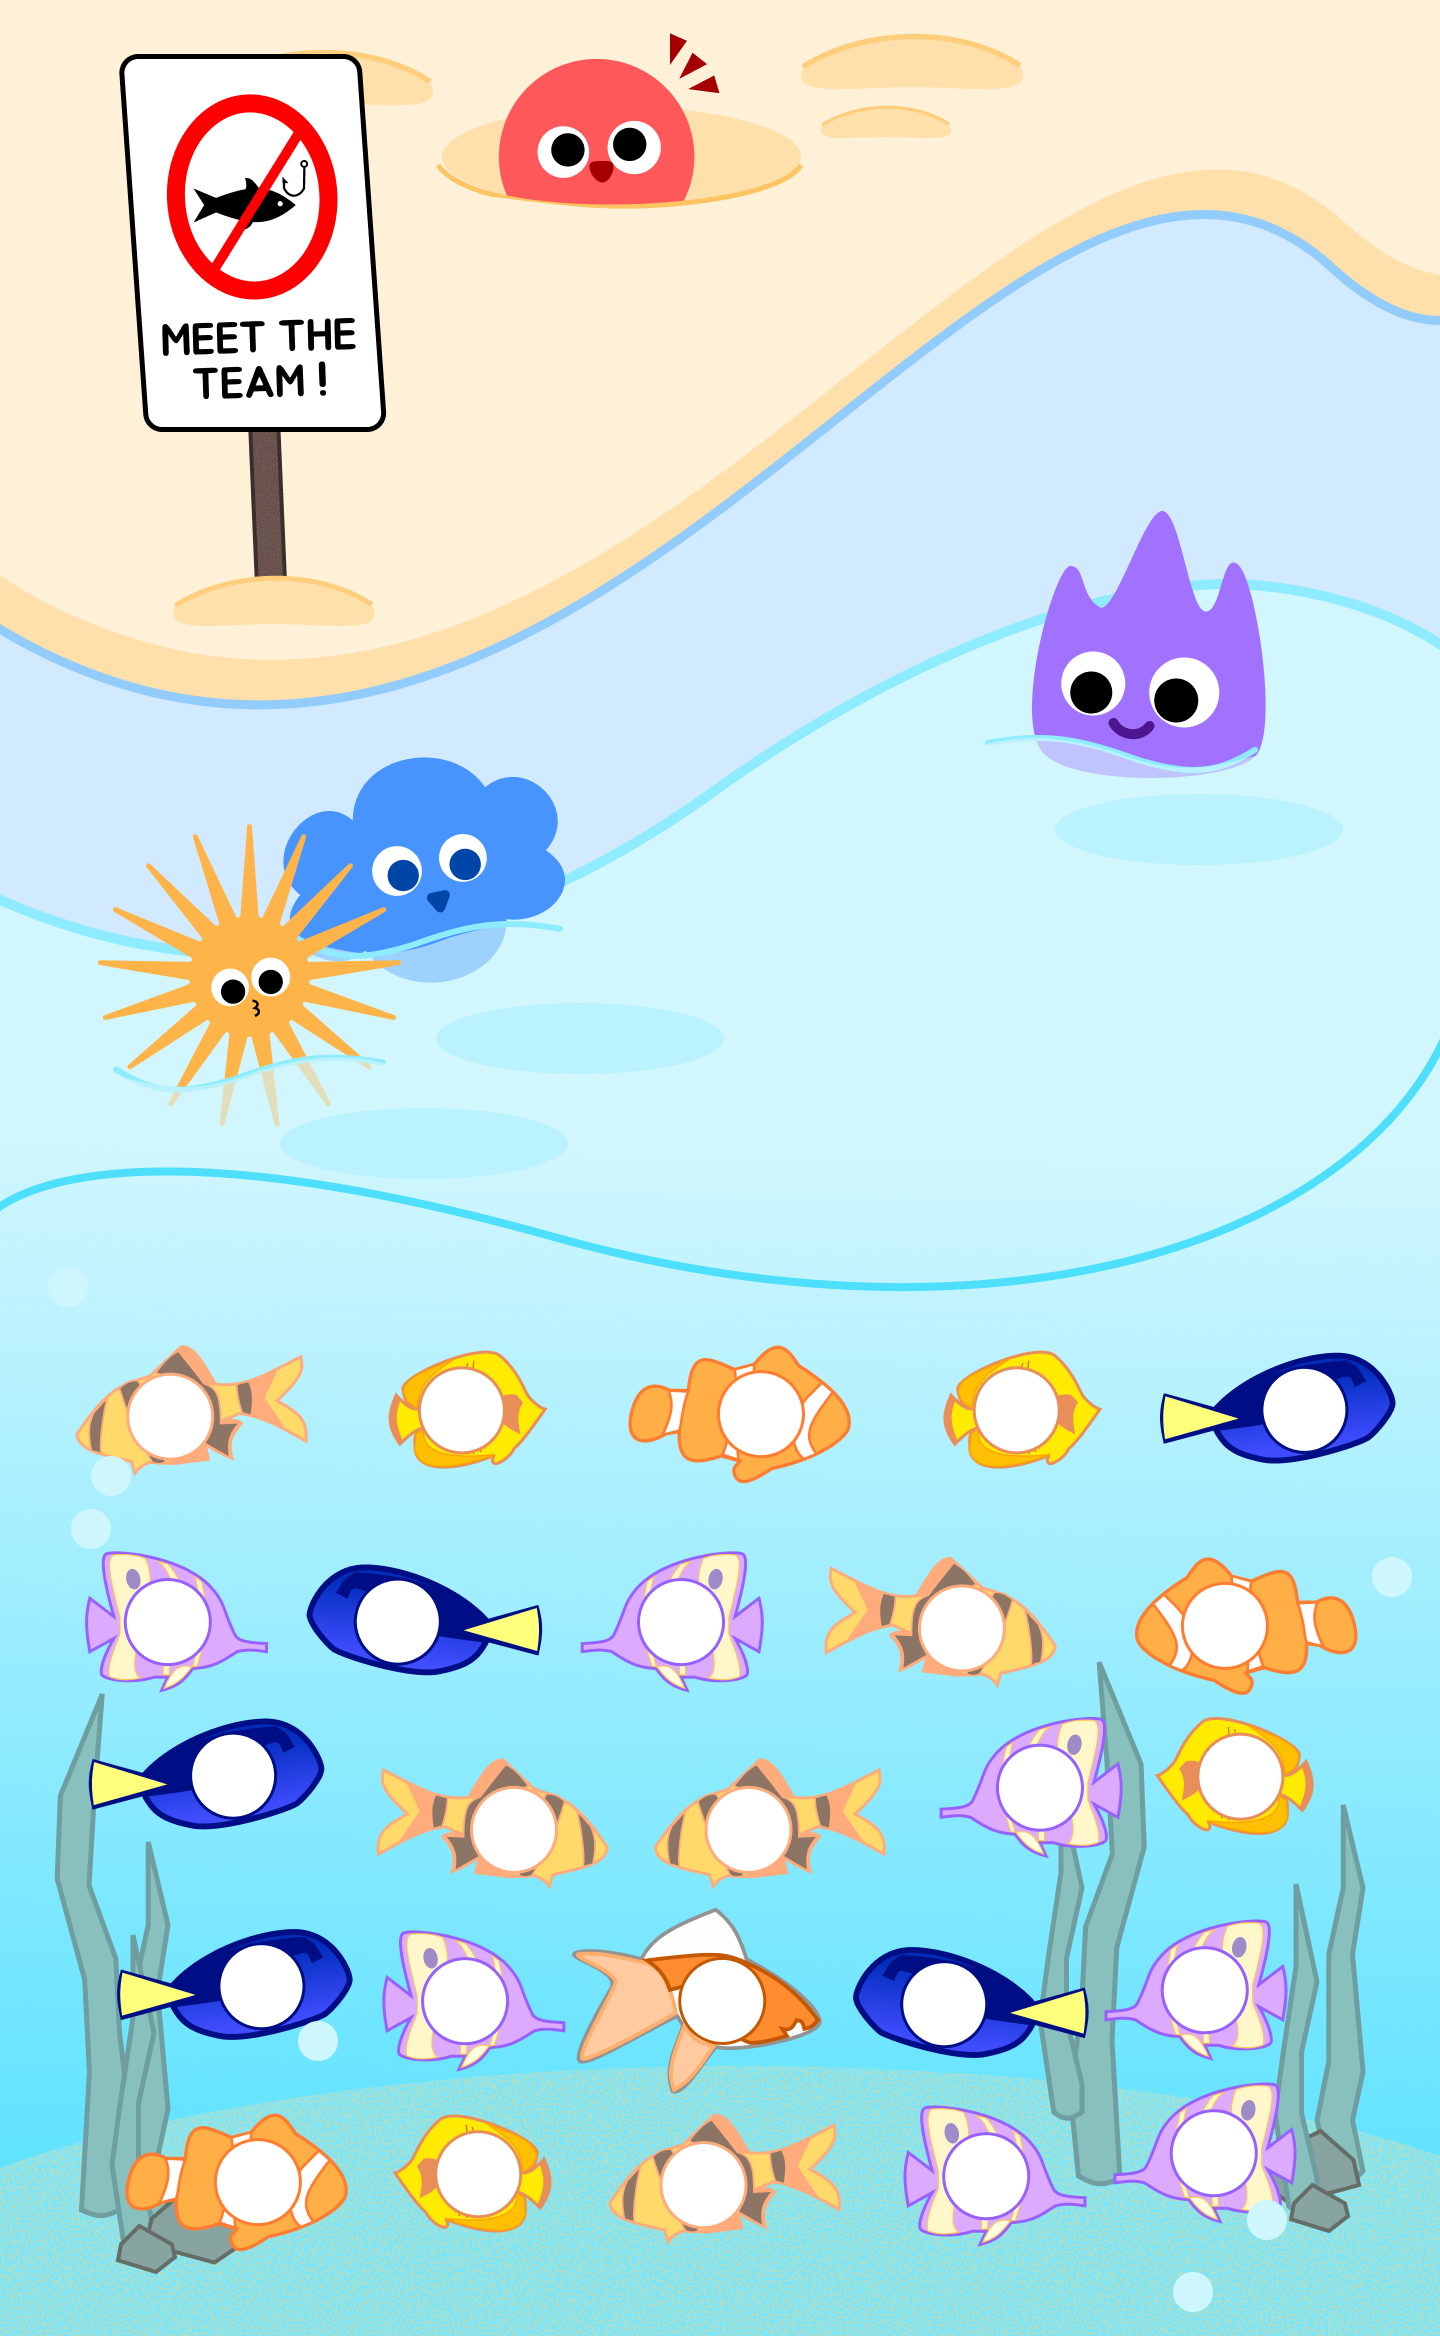
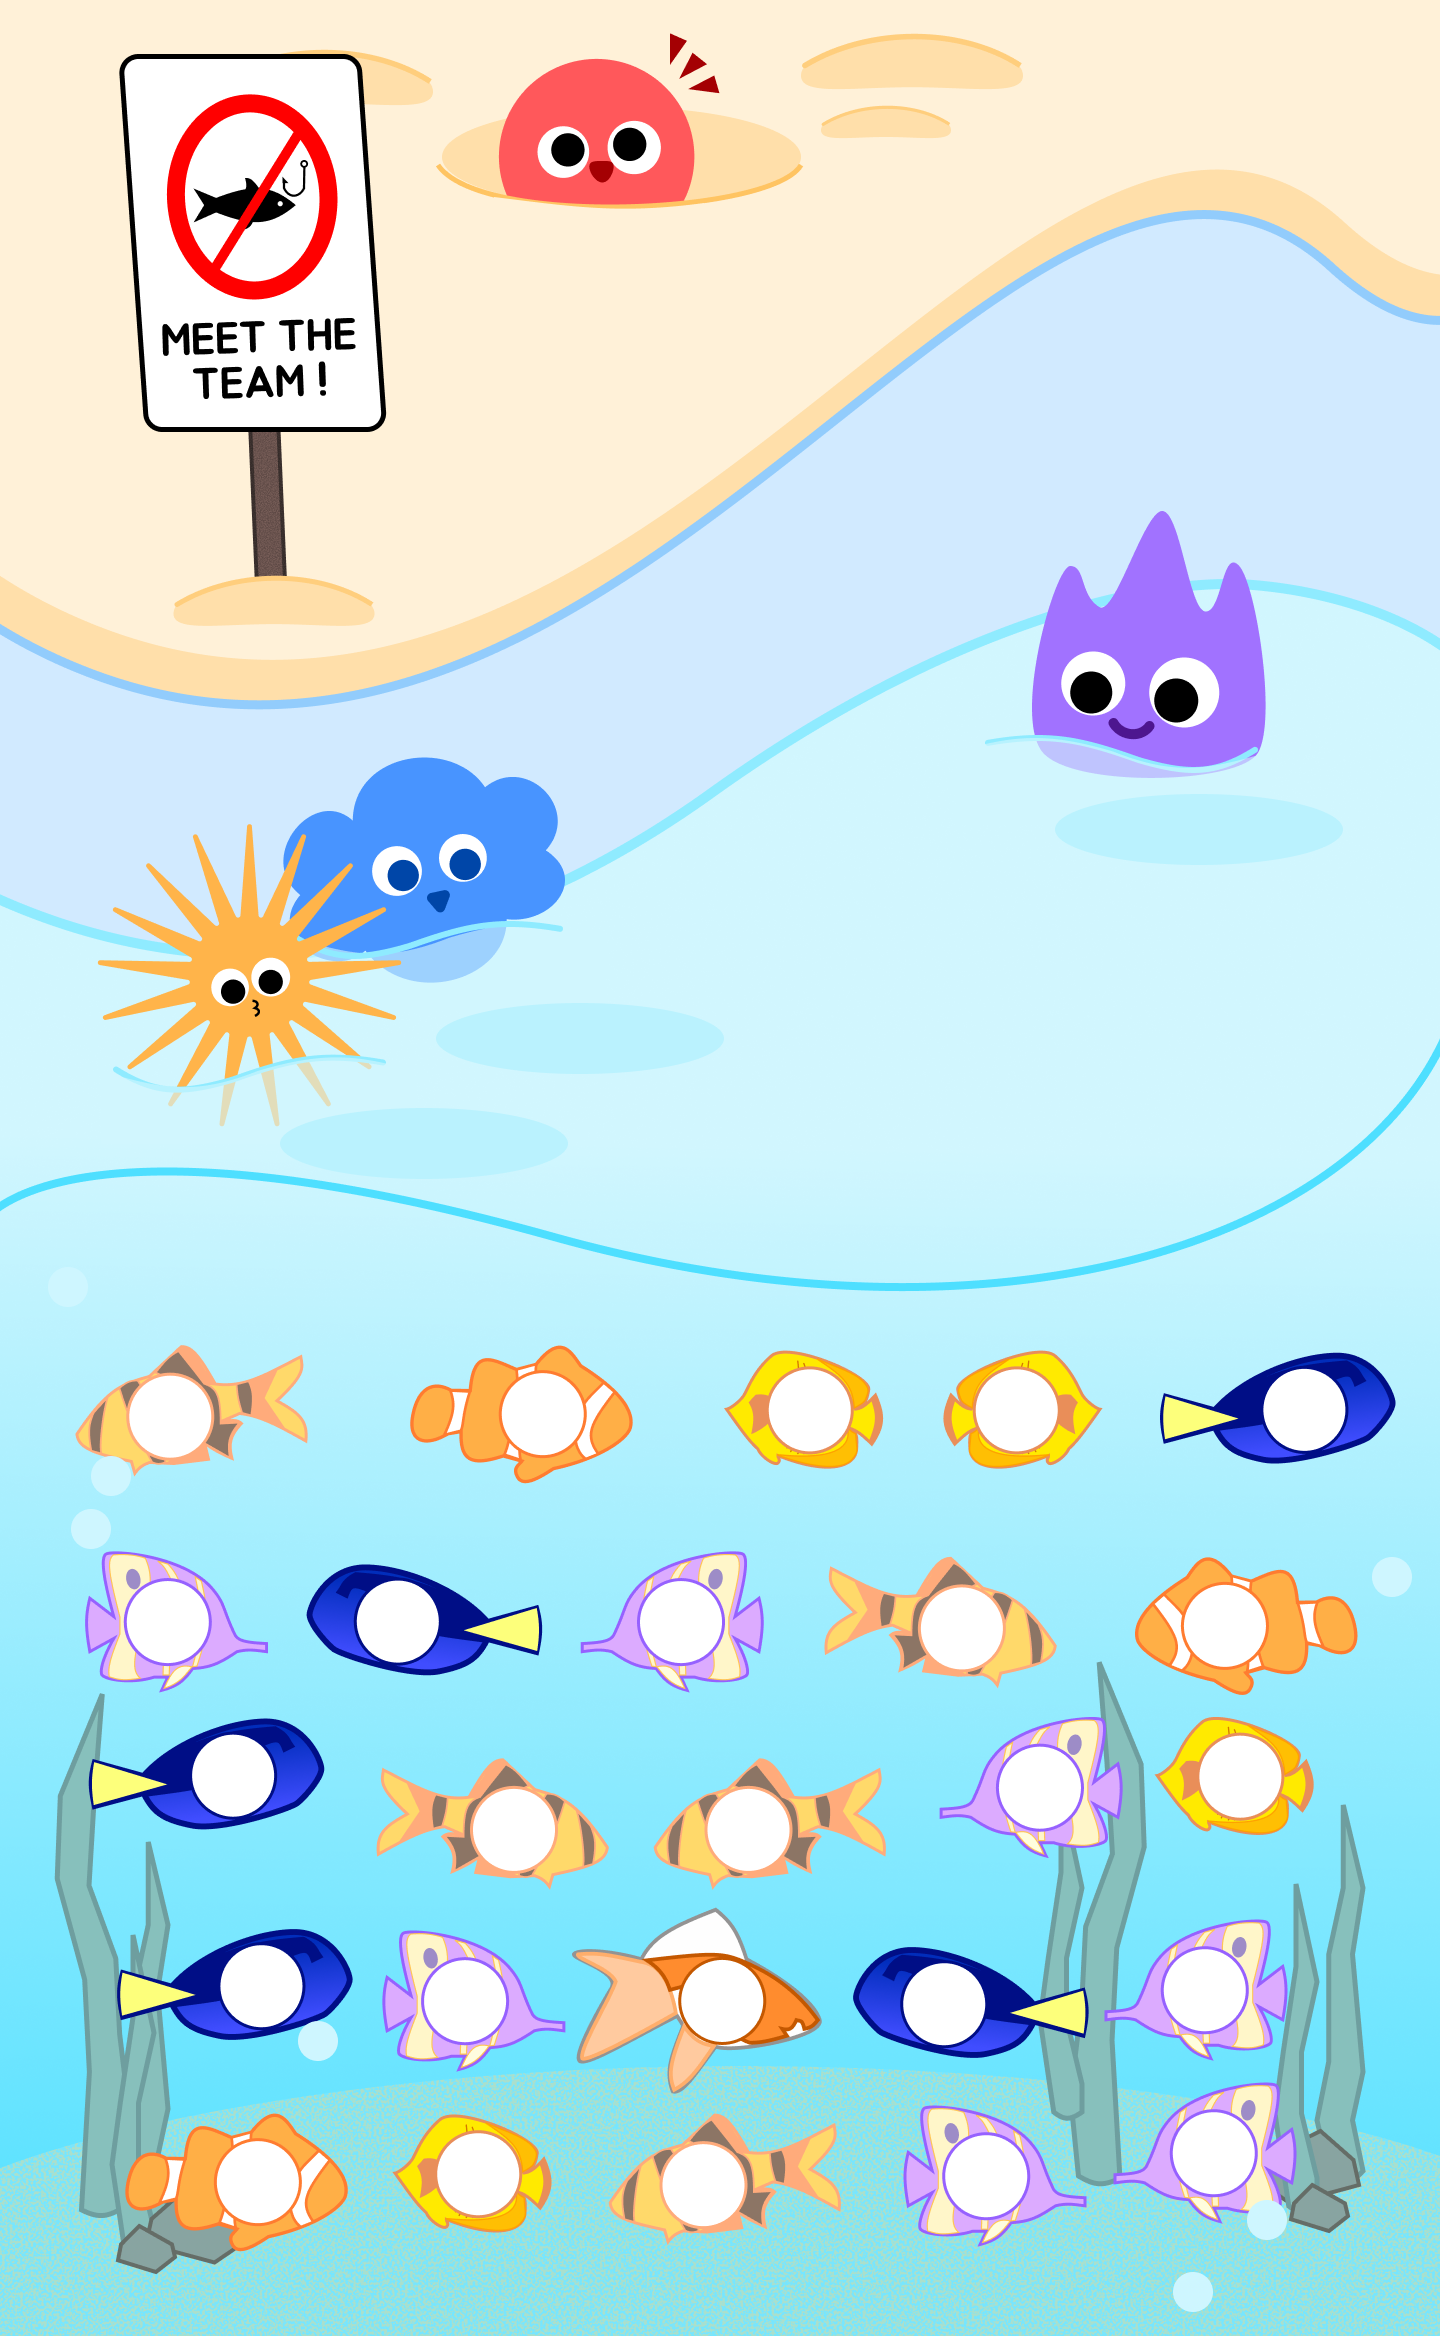
Add hover nametags and magnification

Changed region(s): [[0.25, 0.5625, 0.625, 0.6562]]

diff --git a/src/components/sections/Team.jsx b/src/components/sections/Team.jsx
@@ -27,36 +27,77 @@ import vishal from '../../assets/headshots/vishal.png';
 import winston from '../../assets/headshots/winston.png';
 import youssef from '../../assets/headshots/youssef.png';
 
+const members = {
+  adam:       { name: 'Adam',       role: 'Development Executive' },
+  anushka:    { name: 'Anushka',    role: 'Sponsorship Executive' },
+  aryan:      { name: 'Aryan',      role: 'Development Executive' },
+  ava:        { name: 'Ava',        role: 'UI/UX Executive' },
+  caden:      { name: 'Caden',      role: 'Logistics Executive' },
+  chris:      { name: 'Chris',      role: 'Marketing Director' },
+  daisy:      { name: 'Daisy',      role: 'Sponsorship Executive' },
+  emily:      { name: 'Emily',      role: 'Logistics Director' },
+  erin:       { name: 'Erin',       role: 'Sponsorship Director' },
+  haardik:    { name: 'Haardik',    role: 'Sponsorship Executive' },
+  harshpreet: { name: 'Harshpreet', role: 'IgnitionHacks Chair' },
+  ivan:       { name: 'Ivan',       role: 'Marketing Executive' },
+  jamie:      { name: 'Jamie',      role: 'Sponsorship Director' },
+  jeremy:     { name: 'Jeremy',     role: 'Development Executive' },
+  lily:       { name: 'Lily',       role: 'UI/UX Director' },
+  nahyun:     { name: 'Nahyun',     role: 'Marketing Executive' },
+  philip:     { name: 'Philip',     role: 'Logistics Executive' },
+  // sanidhya:   { name: 'Sanidhya',   role: 'Member' },
+  sebastian:  { name: 'Sebastian',  role: 'Logistics Executive' },
+  shinena:    { name: 'Shinena',    role: 'Logistics Executive' },
+  sunny:      { name: 'Sunny',      role: 'Development Director' },
+  thanusshan: { name: 'Thanusshan', role: 'Marketing Executive' },
+  vishal:     { name: 'Vishal',     role: 'Logistics Executive' },
+  winston:    { name: 'Winston',    role: 'UI/UX Executive' },
+  youssef:    { name: 'Youssef',    role: 'Development Executive' },
+};
+
+function Pin({ src, id, className }) {
+  const { name, role } = members[id];
+  return (
+    <div className={`hs-wrap ${className}`}>
+      <div className="hs-label">
+        <span className="hs-label-name">{name}</span>
+        <span className="hs-label-role">{role}</span>
+      </div>
+      <img src={src} alt={name} className="hs-img" />
+    </div>
+  );
+}
+
 export default function MeetTheTeam() {
   return (
     <section className="team">
       <img src={teamBg} alt="Meet the Team" className="team-bg" />
 
-      <img src={adam}        alt="Adam"        className="headshot hs-adam" />
-      <img src={anushka}     alt="Anushka"     className="headshot hs-anushka" />
-      <img src={aryan}       alt="Aryan"       className="headshot hs-aryan" />
-      <img src={ava}         alt="Ava"         className="headshot hs-ava" />
-      <img src={caden}       alt="Caden"       className="headshot hs-caden" />
-      <img src={chris}       alt="Chris"       className="headshot hs-chris" />
-      <img src={daisy}       alt="Daisy"       className="headshot hs-daisy" />
-      <img src={emily}       alt="Emily"       className="headshot hs-emily" />
-      <img src={erin}        alt="Erin"        className="headshot hs-erin" />
-      <img src={haardik}     alt="Haardik"     className="headshot hs-haardik" />
-      <img src={harshpreet}  alt="Harshpreet"  className="headshot hs-harshpreet" />
-      <img src={ivan}        alt="Ivan"        className="headshot hs-ivan" />
-      <img src={jamie}       alt="Jamie"       className="headshot hs-jamie" />
-      <img src={jeremy}      alt="Jeremy"      className="headshot hs-jeremy" />
-      <img src={lily}        alt="Lily"        className="headshot hs-lily" />
-      <img src={nahyun}      alt="Nahyun"      className="headshot hs-nahyun" />
-      <img src={philip}      alt="Philip"      className="headshot hs-philip" />
-      {/* <img src={sanidhya}    alt="Sanidhya"    className="headshot hs-sanidhya" /> */}
-      {/* <img src={sebastian}   alt="Sebastian"   className="headshot hs-sebastian" /> */}
-      <img src={shinena}     alt="Shinena"     className="headshot hs-shinena" />
-      <img src={sunny}       alt="Sunny"       className="headshot hs-sunny" />
-      <img src={thanusshan}  alt="Thanusshan"  className="headshot hs-thanusshan" />
-      <img src={vishal}      alt="Vishal"      className="headshot hs-vishal" />
-      {/* <img src={winston}     alt="Winston"     className="headshot hs-winston" /> */}
-      <img src={youssef}     alt="Youssef"     className="headshot hs-youssef" />
+      <Pin src={adam}        id="adam"        className="hs-adam" />
+      <Pin src={anushka}     id="anushka"     className="hs-anushka" />
+      <Pin src={aryan}       id="aryan"       className="hs-aryan" />
+      <Pin src={ava}         id="ava"         className="hs-ava" />
+      <Pin src={caden}       id="caden"       className="hs-caden" />
+      <Pin src={chris}       id="chris"       className="hs-chris" />
+      <Pin src={daisy}       id="daisy"       className="hs-daisy" />
+      <Pin src={emily}       id="emily"       className="hs-emily" />
+      <Pin src={erin}        id="erin"        className="hs-erin" />
+      <Pin src={haardik}     id="haardik"     className="hs-haardik" />
+      <Pin src={harshpreet}  id="harshpreet"  className="hs-harshpreet" />
+      <Pin src={ivan}        id="ivan"        className="hs-ivan" />
+      <Pin src={jamie}       id="jamie"       className="hs-jamie" />
+      <Pin src={jeremy}      id="jeremy"      className="hs-jeremy" />
+      <Pin src={lily}        id="lily"        className="hs-lily" />
+      <Pin src={nahyun}      id="nahyun"      className="hs-nahyun" />
+      <Pin src={philip}      id="philip"      className="hs-philip" />
+      {/* <Pin src={sanidhya}    id="sanidhya"    className="hs-sanidhya" /> */}
+      {/* <Pin src={sebastian}   id="sebastian"   className="hs-sebastian" /> */}
+      <Pin src={shinena}     id="shinena"     className="hs-shinena" />
+      <Pin src={sunny}       id="sunny"       className="hs-sunny" />
+      <Pin src={thanusshan}  id="thanusshan"  className="hs-thanusshan" />
+      <Pin src={vishal}      id="vishal"      className="hs-vishal" />
+      <Pin src={winston}     id="winston"     className="hs-winston" />
+      <Pin src={youssef}     id="youssef"     className="hs-youssef" />
     </section>
   );
 }

diff --git a/src/components/sections/Team.css b/src/components/sections/Team.css
@@ -10,20 +10,77 @@
   display: block;
 }
 
-/* Shared headshot style — circle, sized relative to container */
-.headshot {
+/* Wrapper — holds position, size, and hover context */
+.hs-wrap {
   position: absolute;
-  width: 5.67%;        /* scales with section width */
+  width: 5.67%;
   aspect-ratio: 1;
+  transform: translate(-50%, -50%);
+  cursor: pointer;
+  z-index: 1;
+}
+
+.hs-wrap:hover {
+  z-index: 100;
+}
+
+/* Circle photo */
+.hs-img {
+  width: 100%;
+  height: 100%;
   border-radius: 50%;
   object-fit: cover;
-  transform: translate(-50%, -50%);
+  outline: 4px solid transparent;
+  outline-offset: 1px;
+  transition: transform 0.25s ease, outline-color 0.25s ease;
+  display: block;
+}
+
+.hs-wrap:hover .hs-img {
+  transform: scale(1.5);
+  outline-color: #b39ddb;
+}
+
+/* Tooltip label */
+.hs-label {
+  position: absolute;
+  bottom: calc(100% + 36px);
+  left: 50%;
+  transform: translateX(-50%);
+  background: #FFF1D8;
+  border: 3px solid #000;
+  border-radius: 10px;
+  padding: 6px 14px;
+  white-space: nowrap;
+  font-family: var(--font-display);
+  display: flex;
+  flex-direction: column;
+  align-items: center;
+  gap: 1px;
+  opacity: 0;
+  pointer-events: none;
+  transition: opacity 0.2s ease;
+  z-index: 10;
+}
+
+.hs-label-name {
+  font-size: clamp(1.1rem, 1.6vw, 1.6rem);
+  line-height: 1;
+}
+
+.hs-label-role {
+  font-size: clamp(0.85rem, 1.2vw, 1.2rem);
+  line-height: 1;
+}
+
+.hs-wrap:hover .hs-label {
+  opacity: 1;
 }
 
 /* Row 1 */
 .hs-jamie      { top: 60.63%; left: 11.84%; }
-.hs-lily       { top: 60.38%; left: 32.08%; }
-.hs-ivan       { top: 60.53%; left: 52.88%; }
+.hs-lily       { top: 60.53%; left: 37.74%; }
+.hs-ivan       { top: 60.36%; left: 56.3%; }
 .hs-nahyun     { top: 60.37%; left: 70.63%; }
 .hs-youssef    { top: 60.38%; left: 90.61%; }
 
@@ -47,15 +104,15 @@
 .hs-emily    { top: 85.66%; left: 32.3%; }
 .hs-harshpreet { top: 85.66%; left: 50.19%; }
 .hs-sunny      { top: 85.80%; left: 65.59%; }
-.hs-philip     { top: 85.21%; left: 83.69%; }
+.hs-philip     { top: 85.20%; left: 83.69%; }
 
 /* Row 5 */
-.hs-chris    { top: 93.08%; left:  33.21%; }
-.hs-daisy    { top: 93.5%; left: 48.85%; }
+.hs-winston    { top: 93.4%; left: 17.95%; } 
+.hs-chris    { top: 93.08%; left:  33.24%; }
+.hs-daisy    { top: 93.55%; left: 48.85%; }
 
 
 /*
 .hs-sanidhya   { top: 87%; left: 35%; }
-.hs-sebastian  { top: 87%; left: 65%; }
-.hs-winston    { top: 68%; left: 95%; } */
+.hs-sebastian  { top: 87%; left: 65%; }*/
 
